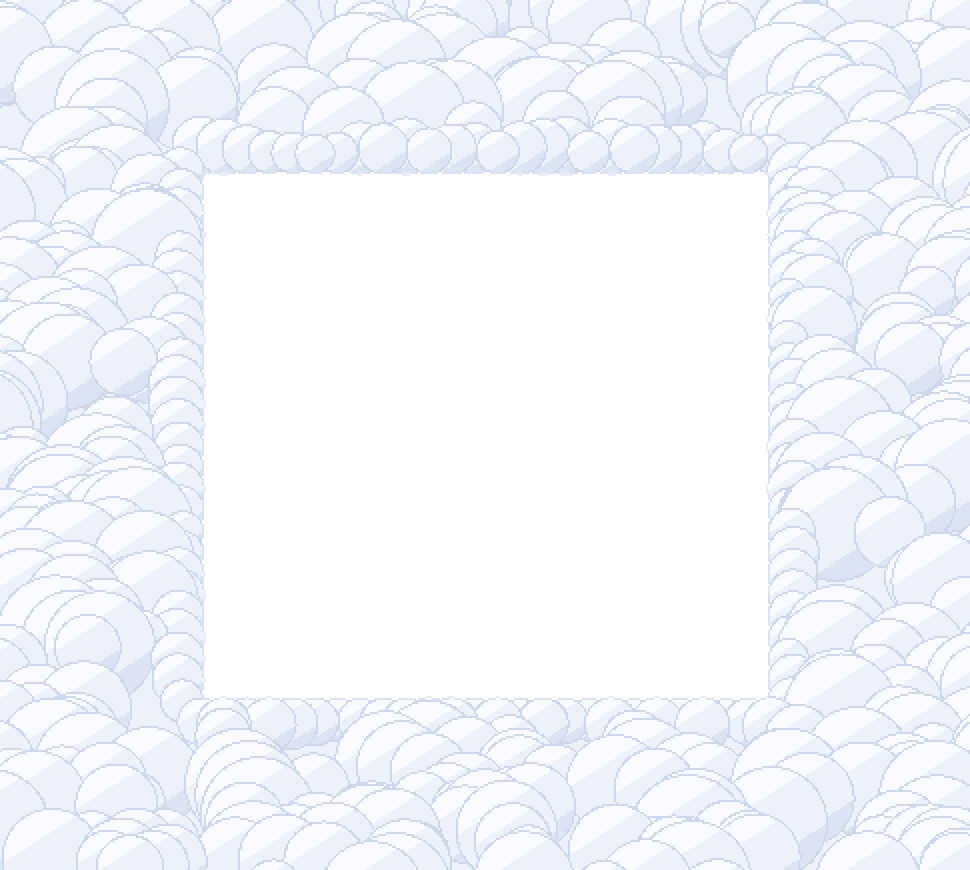
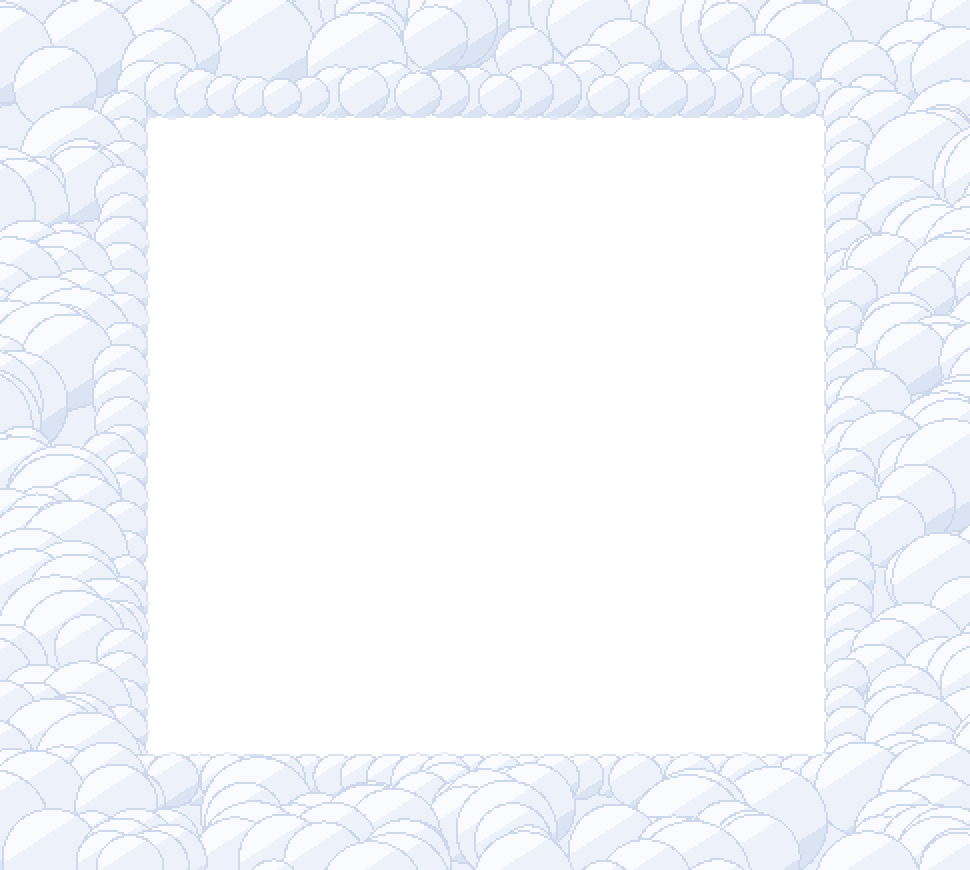
fix: tocar gallinas y cultivos, y borde completo de la granja
- Las nubes cubrían todo el mapa como objetivo de toque y bloqueaban
  gallinas, cultivos y tickets; ahora no reciben toques.
- Nueva imagen farm_extended.png: la granja pintada con un borde de pasto,
  una fila de árboles completos que tapa los cortes de la imagen y una
  cerca que rodea toda la granja.
- Las nubes y los candados se movieron afuera de la cerca.

Claude-Session: https://claude.ai/code/session_01BTCHA2No28NkV7XG8zQ4wX

Changed region(s): [[0.0619, 0.0, 0.9588, 0.931], [0.433, 0.7759, 0.4639, 0.8069], [0.0309, 0.4966, 0.0619, 0.5276]]

diff --git a/Assets/Scripts/World/FarmArtLayout.cs b/Assets/Scripts/World/FarmArtLayout.cs
@@ -62,13 +62,16 @@ public static class FarmArtLayout
     // with padlocks ("Más adelante...") for areas that will open later.
     public const float MarginX = 200f, MarginY = 170f;
     public const float MapWidth = Width + 2 * MarginX, MapHeight = Height + 2 * MarginY;
+    /// <summary>Grass/trees/fence border drawn around the painting in farm_extended.png.</summary>
+    public const float Border = 56f;
+    const float CloudBand = MarginX - Border; // cloud thickness outside the fence
 
     static readonly Vector2[] LockedZones =
     {
-        new Vector2(MarginX / 2f, MarginY + Height / 2f),                    // west
-        new Vector2(MarginX + Width + MarginX / 2f, MarginY + Height / 2f),  // east
-        new Vector2(MarginX + Width / 2f, MarginY / 2f + 20f),               // north
-        new Vector2(MarginX + Width / 2f, MarginY + Height + MarginY / 2f),  // south
+        new Vector2(CloudBand / 2f, MarginY + Height / 2f),                                   // west
+        new Vector2(MarginX + Width + Border + CloudBand / 2f, MarginY + Height / 2f),        // east
+        new Vector2(MarginX + Width / 2f, (MarginY - Border) / 2f + 12f),                     // north
+        new Vector2(MarginX + Width / 2f, MarginY + Height + Border + (MarginY - Border) / 2f), // south
     };
 
     public static void Apply(RectTransform world)
@@ -109,12 +112,15 @@ public static class FarmArtLayout
             if (t != null) t.gameObject.SetActive(false);
         }
 
-        if (world.Find("Painted farm") == null)
-        {
-            var art = new PixelUIFactory().Texture(world, "Painted farm", "World/farm_background", 0, 0, Width, Height);
-            art.raycastTarget = true; // so dragging on the grass pans the farm
-            art.transform.SetAsFirstSibling();
-        }
+        // farm_extended.png = the painting plus a border of grass, trees and a fence all around,
+        // so nothing looks cut at the edges. It sticks out Border px on every side of the painting.
+        var old = world.Find("Painted farm");
+        if (old != null) old.name = "Painted farm (old)"; // keep the name free for the new one
+        if (old != null) old.gameObject.SetActive(false);
+        var art = ui.Texture(world, "Painted farm", "World/farm_extended", -Border, -Border,
+            Width + 2 * Border, Height + 2 * Border);
+        art.raycastTarget = true; // so dragging on the grass pans the farm
+        art.transform.SetAsFirstSibling();
 
         LayoutPlots(world.Find("Crop Plots"));
         LayoutPens(world.Find("Animal Pens"));
@@ -138,8 +144,10 @@ public static class FarmArtLayout
         sky.raycastTarget = true; // drag anywhere to pan
         world.SetParent(map, false);
 
+        // Not a raycast target: the cloud image covers the whole map (its hole is only
+        // transparent), so it would swallow every tap on the farm. The sky below handles drags.
         var clouds = ui.Texture(map, "Clouds", "World/clouds_frame", 0, 0, MapWidth, MapHeight);
-        clouds.raycastTarget = true;
+        clouds.raycastTarget = false;
 
         foreach (var zone in LockedZones) LockSign(map, ui, zone);
         return map;
